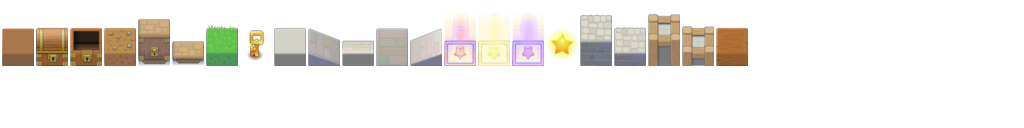
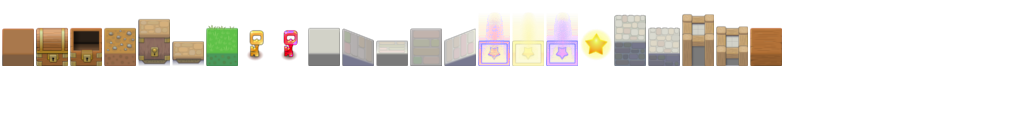
added level 3

Changed region(s): [[0.25, 0.0938, 0.7812, 0.5312]]

diff --git a/no.ntnu.oyvinric.tutorialgame/src/no/ntnu/oyvinric/tutorialgame/gui/Tile.java b/no.ntnu.oyvinric.tutorialgame/src/no/ntnu/oyvinric/tutorialgame/gui/Tile.java
@@ -12,62 +12,62 @@ public abstract class Tile {
 	private float originY = 0f;
 	protected float positionX;
 	protected float positionY;
-	protected float positionZ;
+	protected int layer;
 	private float scaleFactor = 1f;
 	protected Direction direction = Direction.EAST;
 	
-	public Tile(float x, float y, float z) {
+	public Tile(float x, float y, int layer) {
 		positionX = x;
 		positionY = y;
-		positionZ = z;
+		this.layer = layer;
 	}
 	
-	public Tile(float x, float y, float z, int horizontalAdjustment, int verticalAdjustment) {
+	public Tile(float x, float y, int layer, int horizontalAdjustment, int verticalAdjustment) {
 		positionX = x;
 		positionY = y;
-		positionZ = z;
+		this.layer = layer;
 		this.horizontalAdjustment = horizontalAdjustment;
 		this.verticalAdjustment = verticalAdjustment;
 	}
 	
-	public Tile(int x, int y, int z, TextureRegion image) {
+	public Tile(int x, int y, int layer, TextureRegion image) {
 		positionX = x;
 		positionY = y;
-		positionZ = z;
+		this.layer = layer;
 		this.image = image;
 	}
 	
-	public Tile(int x, int y, int z, TextureRegion image, float scaleFactor) {
+	public Tile(int x, int y, int layer, TextureRegion image, float scaleFactor) {
 		positionX = x;
 		positionY = y;
-		positionZ = z;
+		this.layer = layer;
 		this.image = image;
 		this.scaleFactor = scaleFactor;
 	}
 	
-	public Tile(int x, int y, int z, TextureRegion image, int horizontalAdjustment, int verticalAdjustment) {
+	public Tile(int x, int y, int layer, TextureRegion image, int horizontalAdjustment, int verticalAdjustment) {
 		positionX = x;
 		positionY = y;
-		positionZ = z;
+		this.layer = layer;
 		this.image = image;
 		this.horizontalAdjustment = horizontalAdjustment;
 		this.verticalAdjustment = verticalAdjustment;
 	}
 	
-	public Tile(int x, int y, int z, TextureRegion image, int horizontalAdjustment, int verticalAdjustment, float scaleFactor) {
+	public Tile(int x, int y, int layer, TextureRegion image, int horizontalAdjustment, int verticalAdjustment, float scaleFactor) {
 		positionX = x;
 		positionY = y;
-		positionZ = z;
+		this.layer = layer;
 		this.image = image;
 		this.horizontalAdjustment = horizontalAdjustment;
 		this.verticalAdjustment = verticalAdjustment;
 		this.scaleFactor = scaleFactor;
 	}
 	
-	public void setPosition(int x, int y, int z) {
+	public void setPosition(int x, int y, int layer) {
 		positionX = x;
 		positionY = y;
-		positionZ = z;
+		this.layer = layer;
 	}
 	
 	public void rotate(float angle) {
@@ -106,8 +106,8 @@ public abstract class Tile {
 		return positionY + verticalAdjustment;
 	}
 	
-	public float getZ() {
-		return positionZ;
+	public int getLayer() {
+		return layer;
 	}
 	
 	public float getRotation() {

diff --git a/no.ntnu.oyvinric.tutorialgame/src/no/ntnu/oyvinric/tutorialgame/gui/GameBoard.java b/no.ntnu.oyvinric.tutorialgame/src/no/ntnu/oyvinric/tutorialgame/gui/GameBoard.java
@@ -17,11 +17,13 @@ import com.badlogic.gdx.utils.Array;
 
 public class GameBoard {
 
+	public static final int windowWidth = 800;
+	public static final int windowHeight = 480;
 	public static final float tileHeight = 13f;
 	public static final float tileWidth = 32f;
 	public static final float stackingHeight = 26f;
 	public static final int horizontalLeftLimit = 0;
-	public static final int verticalUpperLimit = 460;
+	public static final int verticalUpperLimit = windowHeight+30;
 	TutorialGame parent;
 	
 //	TextureAtlas environmentTextures;
@@ -43,7 +45,7 @@ public class GameBoard {
 //		objectTextures = new TextureAtlas(Gdx.files.internal("resources/gfx/objects.atlas"));
 		
 		camera = new OrthographicCamera();
-		camera.setToOrtho(false, 800, 480);
+		camera.setToOrtho(false, windowWidth, windowHeight);
 		camera.update();
 		
 		batch = new SpriteBatch();
@@ -75,6 +77,10 @@ public class GameBoard {
 							else if (name.equals("kaylee")) {
 								kaylee = new CharacterTile(CharacterName.KAYLEE, horizontalLeftLimit+j*tileWidth, verticalUpperLimit-(k-1)*tileHeight-(layers.getCount()-i)*stackingHeight, i);
 								characterTiles.add(kaylee);
+							}
+							else if (name.equals("wash")) {
+								wash = new CharacterTile(CharacterName.WASH, horizontalLeftLimit+j*tileWidth, verticalUpperLimit-(k-1)*tileHeight-(layers.getCount()-i)*stackingHeight, i);
+								characterTiles.add(wash);
 							}
 						}
 					}

diff --git a/no.ntnu.oyvinric.tutorialgame/src/no/ntnu/oyvinric/tutorialgame/gui/CharacterTile.java b/no.ntnu.oyvinric.tutorialgame/src/no/ntnu/oyvinric/tutorialgame/gui/CharacterTile.java
@@ -23,14 +23,14 @@ public class CharacterTile extends Tile {
 	Animation walkEastAnimation;
 	Animation walkWestAnimation;
 	
-	public CharacterTile(CharacterName name, float x, float y, float z) {
-		super(x, y, z);
+	public CharacterTile(CharacterName name, float x, float y, int layer) {
+		super(x, y, layer);
 		this.name = name;
 		loadAnimation(name);
 	}
 	
-	public CharacterTile(CharacterName name, float x, float y, float z, int horizontalAdjustment, int verticalAdjustment) {
-		super(x, y, z, horizontalAdjustment, verticalAdjustment);
+	public CharacterTile(CharacterName name, float x, float y, int layer, int horizontalAdjustment, int verticalAdjustment) {
+		super(x, y, layer, horizontalAdjustment, verticalAdjustment);
 		this.name = name;
 		loadAnimation(name);
 	}

diff --git a/no.ntnu.oyvinric.tutorialgame/src/no/ntnu/oyvinric/tutorialgame/level2/component/Component.java b/no.ntnu.oyvinric.tutorialgame/src/no/ntnu/oyvinric/tutorialgame/level2/component/Component.java
@@ -1,4 +1,4 @@
-package no.ntnu.oyvinric.tutorialgame.level1.component;
+package no.ntnu.oyvinric.tutorialgame.level2.component;
 
 import com.badlogic.gdx.backends.lwjgl.LwjglApplication;
 
@@ -8,13 +8,13 @@ import no.ntnu.oyvinric.tutorialgame.core.TutorialGame.GameCharacter;
 import no.ntnu.oyvinric.tutorialgame.gui.GameBoard;
 
 public class Component extends Block {
-	
+
 	TutorialGame game;
 	GameCharacter malcolm;
 	GameCharacter kaylee;
 	
 	public Component() {
-		game = new TutorialGame(2);
+		game = new TutorialGame(3);
 		new LwjglApplication(game, "Level 1", GameBoard.windowWidth, GameBoard.windowHeight, false);
 		try {
 			Thread.sleep(1000);
@@ -72,5 +72,5 @@ public class Component extends Block {
 
 	public void doNothing() {
 	}
-
+	
 }

diff --git a/no.ntnu.oyvinric.tutorialgame/src/no/ntnu/oyvinric/tutorialgame/level2/Level2.java b/no.ntnu.oyvinric.tutorialgame/src/no/ntnu/oyvinric/tutorialgame/level2/Level2.java
@@ -1,0 +1,7 @@
+package no.ntnu.oyvinric.tutorialgame.level2;
+
+import no.ntnu.item.arctis.runtime.Block;
+
+public class Level2 extends Block {
+
+}
